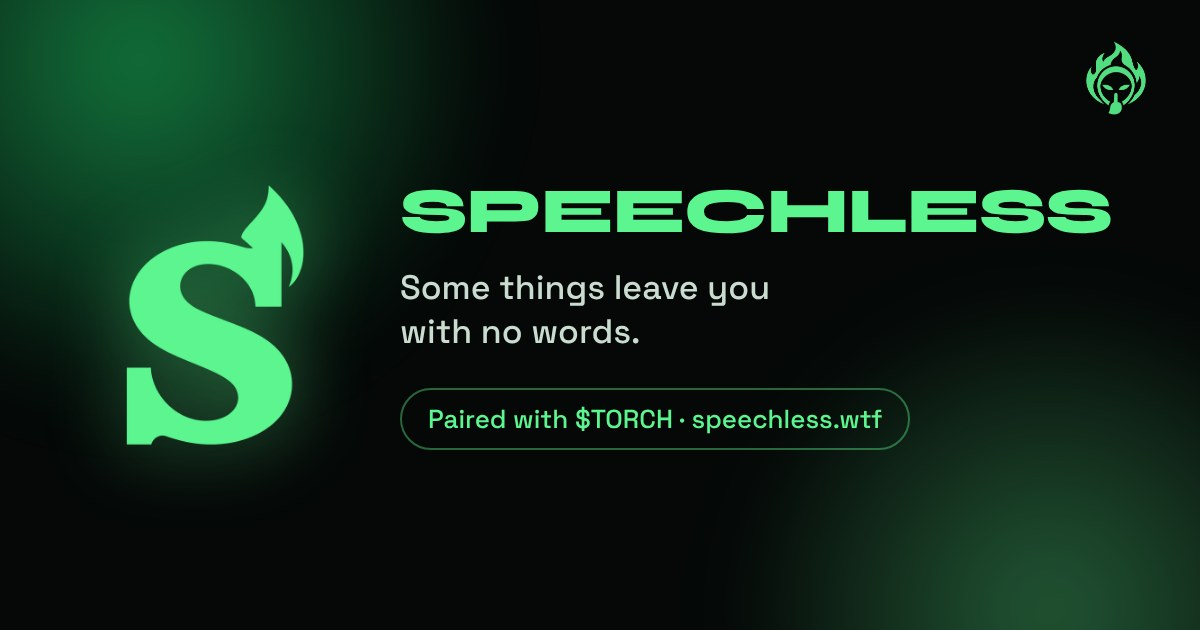
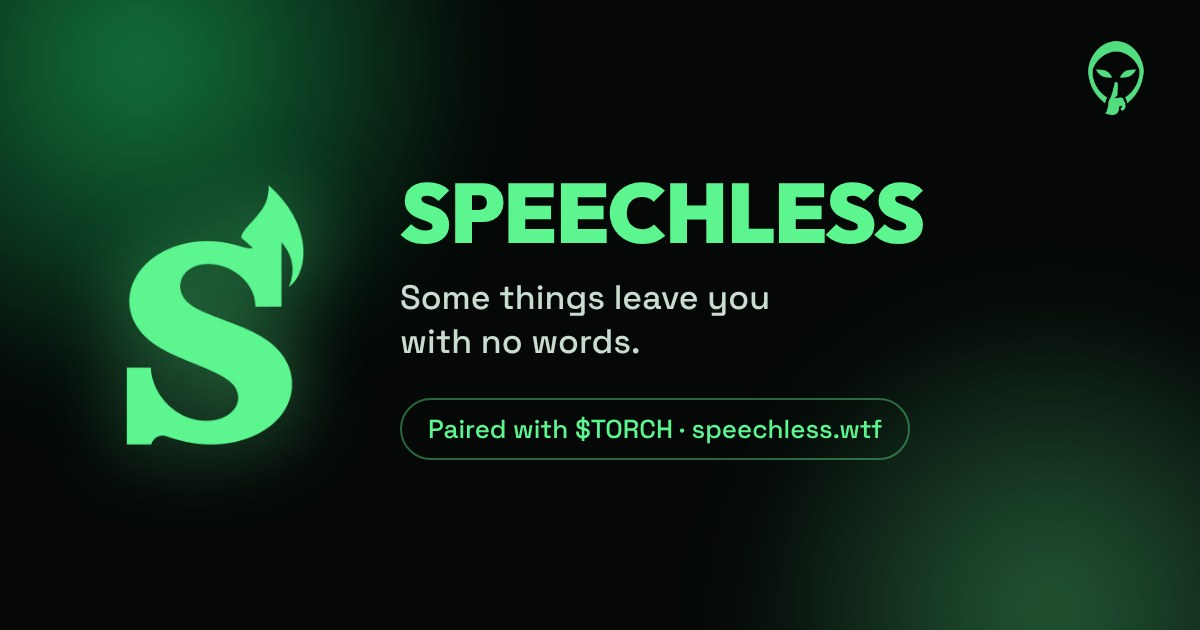
Add files via upload

diff --git a/index.html b/index.html
@@ -21,8 +21,8 @@
 <link rel="icon" type="image/png" href="favicon.png">
 <link rel="apple-touch-icon" href="favicon.png">
 <style>
-@font-face{font-family:"Syne";font-weight:700;font-style:normal;font-display:swap;src:url(fonts/syne-latin-700-normal.woff2) format("woff2")}
-@font-face{font-family:"Syne";font-weight:800;font-style:normal;font-display:swap;src:url(fonts/syne-latin-800-normal.woff2) format("woff2")}
+@font-face{font-family:"Outfit";font-weight:800;font-style:normal;font-display:swap;src:url(fonts/outfit-latin-800-normal.woff2) format("woff2")}
+@font-face{font-family:"Outfit";font-weight:900;font-style:normal;font-display:swap;src:url(fonts/outfit-latin-900-normal.woff2) format("woff2")}
 @font-face{font-family:"Space Grotesk";font-weight:400;font-style:normal;font-display:swap;src:url(fonts/space-grotesk-latin-400-normal.woff2) format("woff2")}
 @font-face{font-family:"Space Grotesk";font-weight:500;font-style:normal;font-display:swap;src:url(fonts/space-grotesk-latin-500-normal.woff2) format("woff2")}
 @font-face{font-family:"Space Grotesk";font-weight:600;font-style:normal;font-display:swap;src:url(fonts/space-grotesk-latin-600-normal.woff2) format("woff2")}
@@ -59,7 +59,7 @@ main,nav,footer{position:relative;z-index:2}
 /* Nav */
 nav{position:fixed;top:16px;left:50%;transform:translateX(-50%);z-index:50;width:min(760px,calc(100% - 32px))}
 .pill{display:flex;align-items:center;justify-content:space-between;gap:12px;padding:8px 8px 8px 14px;border-radius:999px;background:var(--glass);border:1px solid var(--line);backdrop-filter:blur(16px);-webkit-backdrop-filter:blur(16px)}
-.brand{display:flex;align-items:center;gap:10px;font-family:Syne,sans-serif;font-weight:800;letter-spacing:.04em}
+.brand{display:flex;align-items:center;gap:10px;font-family:Outfit,sans-serif;font-weight:800;letter-spacing:.04em}
 .brand img{width:28px;height:28px}
 .links{display:flex;gap:4px}
 .links a{padding:8px 14px;border-radius:999px;font-size:14px;color:var(--muted);transition:.2s}
@@ -83,7 +83,7 @@ nav{position:fixed;top:16px;left:50%;transform:translateX(-50%);z-index:50;width
 .eyebrow{display:inline-flex;align-items:center;gap:8px;padding:6px 14px;border-radius:999px;border:1px solid var(--line);background:var(--glass);font-size:13px;color:var(--muted);margin-bottom:22px}
 .dot{width:8px;height:8px;border-radius:50%;background:var(--green);box-shadow:0 0 10px var(--green);animation:blink 1.6s infinite}
 @keyframes blink{50%{opacity:.3}}
-h1{font-family:Syne,sans-serif;font-weight:800;font-size:min(8.2vw,128px);white-space:nowrap;line-height:.92;letter-spacing:-.02em}
+h1{font-family:Outfit,sans-serif;font-weight:900;font-size:min(13.5vw,150px);white-space:nowrap;line-height:.92;letter-spacing:-.02em}
 .shiny{background:linear-gradient(110deg,var(--green2) 30%,#eafff1 50%,var(--green2) 70%);background-size:220% 100%;-webkit-background-clip:text;background-clip:text;color:transparent;animation:shine 4s linear infinite}
 @keyframes shine{from{background-position:120% 0}to{background-position:-120% 0}}
 .lead{max-width:560px;margin:22px auto 0;font-size:clamp(17px,2.4vw,21px);color:var(--muted)}
@@ -97,13 +97,13 @@ h1{font-family:Syne,sans-serif;font-weight:800;font-size:min(8.2vw,128px);white-
 /* Sections */
 section{padding:110px 16px;max-width:1120px;margin:0 auto}
 .kicker{font-size:13px;letter-spacing:.18em;text-transform:uppercase;color:var(--green);margin-bottom:14px}
-h2{font-family:Syne,sans-serif;font-weight:800;font-size:clamp(30px,6vw,64px);overflow-wrap:break-word;line-height:1;letter-spacing:-.01em;max-width:780px}
+h2{font-family:Outfit,sans-serif;font-weight:800;font-size:clamp(34px,6.4vw,70px);overflow-wrap:break-word;line-height:1;letter-spacing:-.02em;max-width:780px}
 .sub{color:var(--muted);font-size:18px;max-width:600px;margin-top:18px}
 
 /* Stats */
 .stats{display:grid;grid-template-columns:repeat(4,1fr);gap:14px;margin-top:48px}
 .stat{padding:26px 22px;border-radius:22px;background:var(--glass);border:1px solid var(--line)}
-.stat .num{font-family:Syne,sans-serif;font-weight:800;font-size:clamp(38px,5vw,56px);color:var(--green);line-height:1}
+.stat .num{font-family:Outfit,sans-serif;font-weight:800;font-size:clamp(38px,5vw,56px);color:var(--green);line-height:1}
 .stat .lbl{margin-top:10px;color:var(--muted);font-size:15px}
 
 /* Spotlight cards */
@@ -113,7 +113,7 @@ h2{font-family:Syne,sans-serif;font-weight:800;font-size:clamp(30px,6vw,64px);ov
 .spot:hover::before{opacity:1}
 .spot>*{position:relative}
 .spot .ico{width:44px;height:44px;border-radius:14px;display:grid;place-items:center;background:var(--green-dim);color:var(--green);margin-bottom:20px}
-.spot h3{font-family:Syne,sans-serif;font-size:22px;margin-bottom:10px}
+.spot h3{font-family:Outfit,sans-serif;font-size:22px;margin-bottom:10px}
 .spot p{color:var(--muted)}
 
 /* Burn */
@@ -124,7 +124,7 @@ h2{font-family:Syne,sans-serif;font-weight:800;font-size:clamp(30px,6vw,64px);ov
 .flow h4{font-size:17px;margin-bottom:4px}
 .flow p{color:var(--muted);font-size:15px}
 .tracker{margin-top:28px;padding:24px;border-radius:22px;border:1px dashed rgba(93,245,144,.35);text-align:center}
-.tracker .big{font-family:Syne,sans-serif;font-weight:800;font-size:clamp(26px,5vw,46px);line-height:1.15;color:var(--green)}
+.tracker .big{font-family:Outfit,sans-serif;font-weight:800;font-size:clamp(26px,5vw,46px);line-height:1.15;color:var(--green)}
 .tracker small{color:var(--muted)}
 
 /* Quotes */
@@ -140,12 +140,24 @@ h2{font-family:Syne,sans-serif;font-weight:800;font-size:clamp(30px,6vw,64px);ov
 /* Buy */
 .steps{display:grid;grid-template-columns:repeat(4,1fr);gap:14px;margin-top:48px}
 .steps .spot{padding:26px 22px}
-.steps .num{font-family:Syne,sans-serif;font-size:44px;font-weight:800;color:var(--green);opacity:.9;line-height:1;margin-bottom:14px}
+.steps .num{font-family:Outfit,sans-serif;font-size:44px;font-weight:800;color:var(--green);opacity:.9;line-height:1;margin-bottom:14px}
 
 /* Final */
 .final{text-align:center;padding-bottom:140px}
 .final h2{margin:0 auto}
 .final img{width:150px;margin:0 auto 26px;filter:drop-shadow(0 0 20px rgba(93,245,144,.4))}
+.final img.in{animation:shh 4.5s ease-in-out infinite}
+@keyframes shh{0%,100%{transform:translateY(0) rotate(0)}30%{transform:translateY(-10px) rotate(-3deg)}60%{transform:translateY(-4px) rotate(2deg)}}
+.scene{position:relative;display:flex;align-items:flex-end;margin-top:30px;aspect-ratio:1200/821;max-width:520px}
+.scene::after{content:"";position:absolute;left:45%;right:2%;bottom:4%;height:30%;border-radius:50%;background:radial-gradient(ellipse,rgba(93,245,144,.45),transparent 70%);filter:blur(24px);animation:heat 1.6s ease-in-out infinite;z-index:0}
+.scene img{position:relative;z-index:1;height:100%;filter:drop-shadow(0 0 14px rgba(93,245,144,.3))}
+.scene .al{width:33.25%;object-fit:contain;transform-origin:50% 100%;animation:sway 5s ease-in-out infinite}
+.scene .fi{width:66.75%;object-fit:contain;transform-origin:55% 100%;animation:flicker 1.3s ease-in-out infinite}
+@keyframes flicker{0%,100%{transform:scale(1,1) skewX(0);filter:drop-shadow(0 0 14px rgba(93,245,144,.3)) brightness(1)}25%{transform:scale(1.01,1.035) skewX(-.8deg);filter:drop-shadow(0 0 22px rgba(93,245,144,.55)) brightness(1.08)}50%{transform:scale(.995,.985) skewX(.5deg)}75%{transform:scale(1.005,1.025) skewX(.9deg);filter:drop-shadow(0 0 18px rgba(93,245,144,.45)) brightness(1.04)}}
+@keyframes sway{0%,100%{transform:rotate(0)}50%{transform:rotate(-1.5deg) translateY(-3px)}}
+@keyframes heat{50%{opacity:.6;transform:scale(1.08,1.15)}}
+.logo-wrap img{animation:float 6s ease-in-out infinite,glow 3s ease-in-out infinite}
+@keyframes glow{50%{filter:drop-shadow(0 0 40px rgba(93,245,144,.6))}}
 
 footer{border-top:1px solid var(--line);padding:30px 16px;text-align:center;color:var(--muted);font-size:13px}
 footer p+p{margin-top:6px}
@@ -268,6 +280,7 @@ footer p+p{margin-top:6px}
         <p class="kicker reveal">Speechless burns</p>
         <h2 class="reveal">We only burn when we're speechless.</h2>
         <p class="sub reveal">No schedule, no fake promise. When something happens that leaves the dev without words, a chunk of his own bag goes up in green flames. New high, crazy week, wild Torch moment. You'll know when it happens.</p>
+        <div class="scene reveal" aria-hidden="true"><img class="al" src="burn-alien.png" alt=""><img class="fi" src="burn-fire.png" alt=""></div>
         <div class="tracker reveal">
           <div class="big"><span class="js-moments">0</span> speechless moments</div>
           <small class="js-burned">Burned so far: the first one is coming</small>
@@ -322,7 +335,7 @@ footer p+p{margin-top:6px}
   </section>
 
   <section class="final">
-    <img class="reveal mascot" src="mascot.png" alt="The SPEECHLESS alien in a green flame, holding a finger to its lips">
+    <img class="reveal mascot" src="mascot.png" alt="The SPEECHLESS alien holding a finger to its lips">
     <h2 class="reveal"><span class="shiny">Shh.</span> You already know.</h2>
     <div class="cta reveal">
       <a class="btn btn-green js-buy" href="#">Buy on Torch</a>
